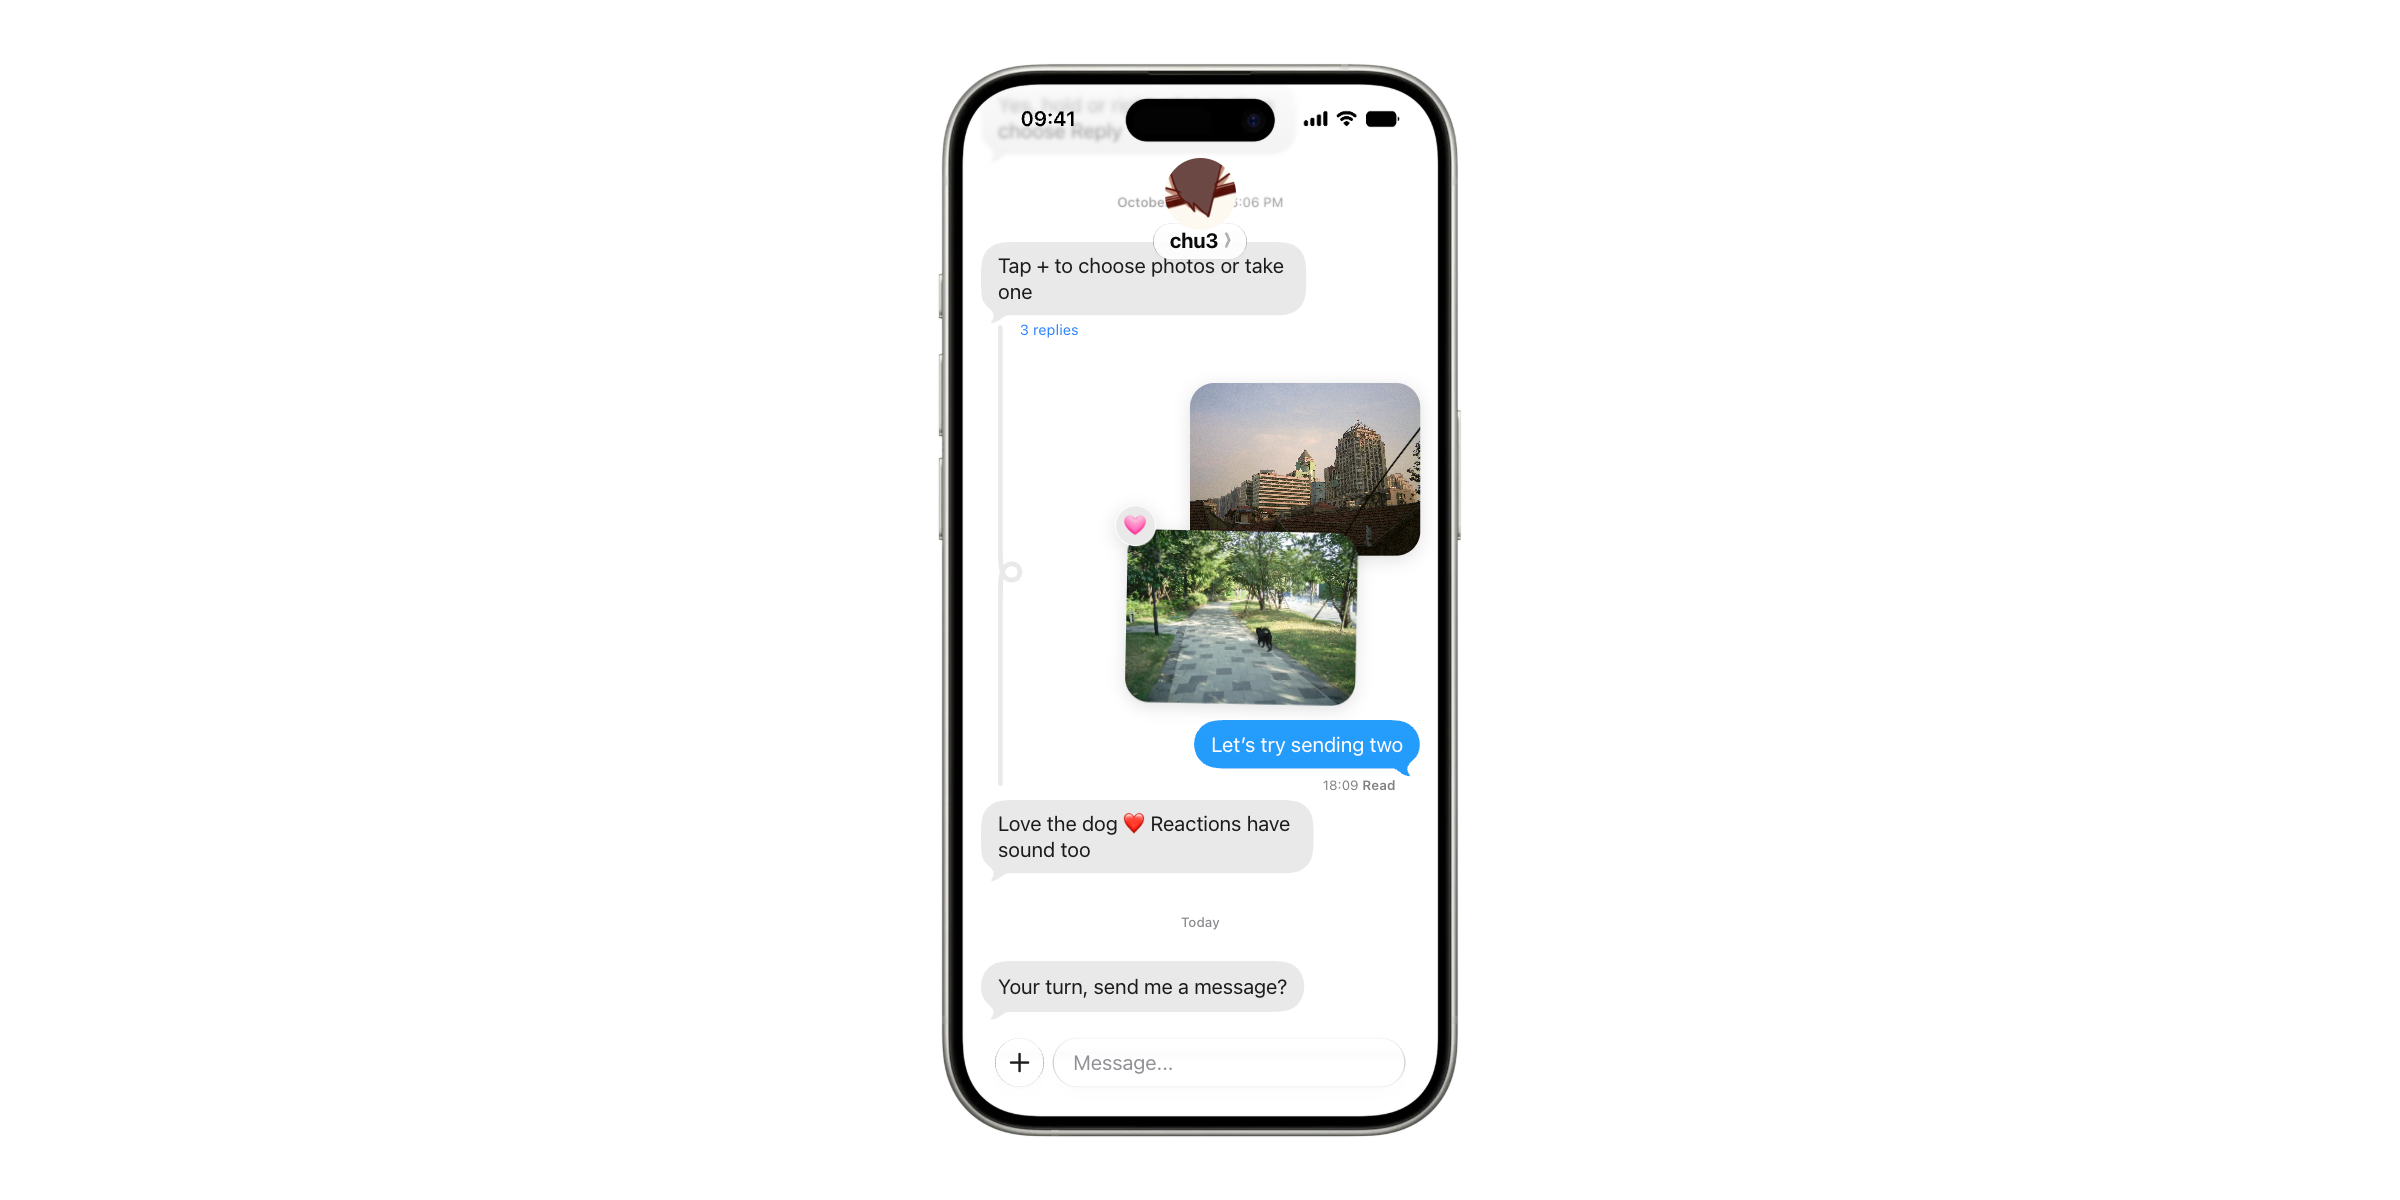
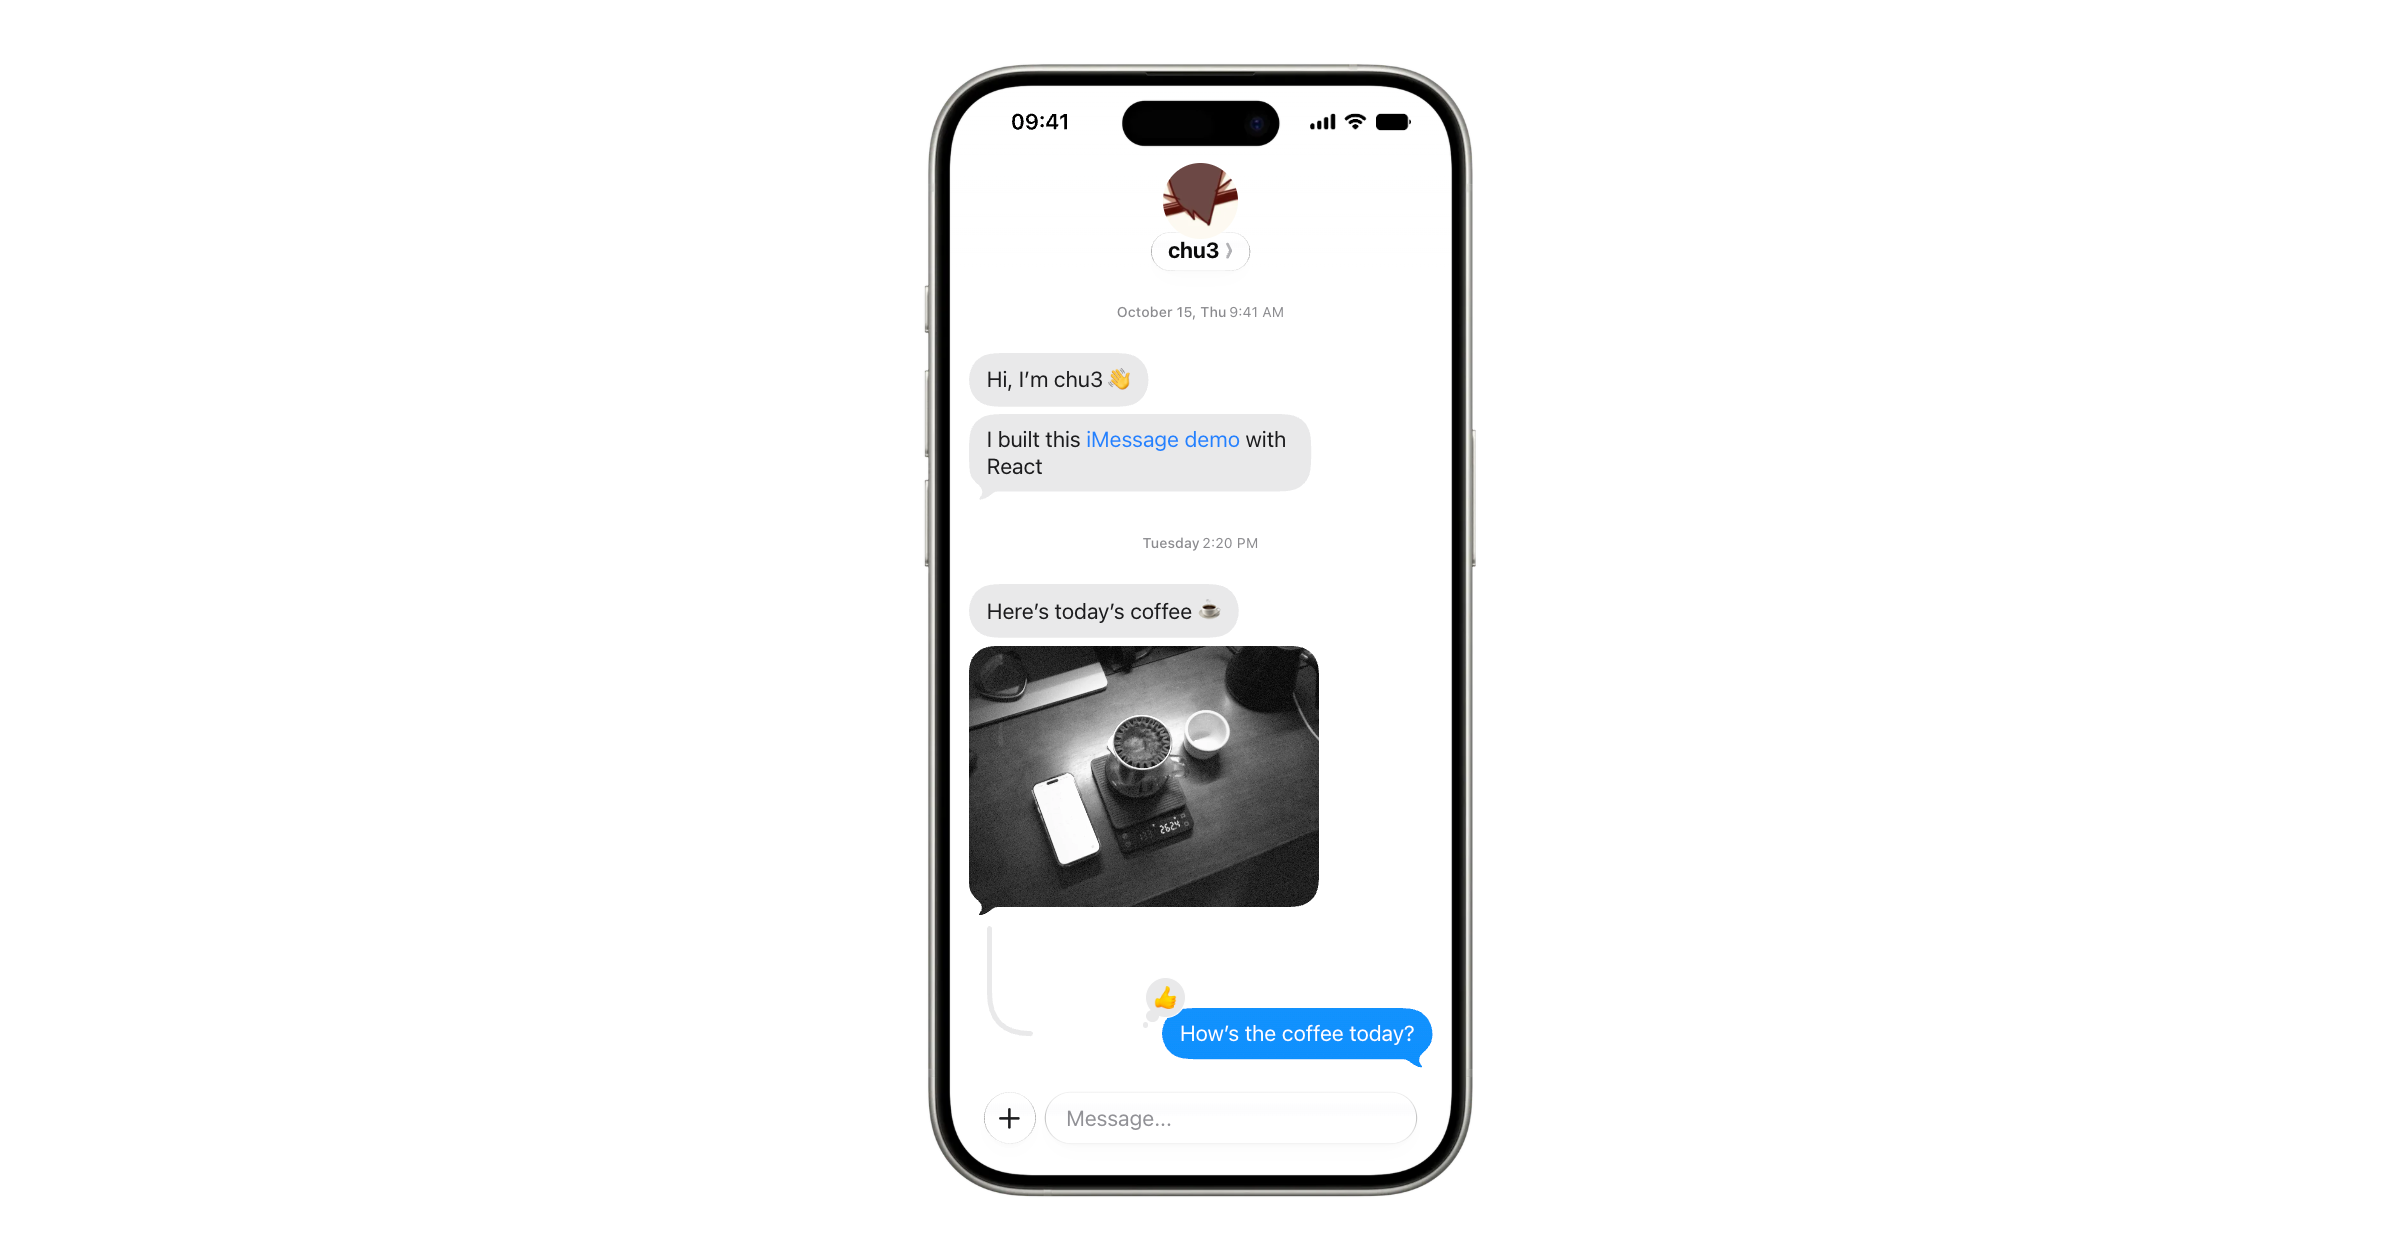
chore(assets): refresh and compress preview images

Changed region(s): [[0.375, 0.0308, 0.625, 0.9558]]

diff --git a/index.html b/index.html
@@ -21,7 +21,7 @@
     <meta property="og:image" content="https://imessage-demo.chu3.top/og.png" />
     <meta property="og:image:type" content="image/png" />
     <meta property="og:image:width" content="2400" />
-    <meta property="og:image:height" content="1200" />
+    <meta property="og:image:height" content="1260" />
     <meta
       property="og:image:alt"
       content="iMessage demo showing photo sharing, threaded replies and reactions inside an iPhone frame"

diff --git a/CREDITS.md b/CREDITS.md
@@ -1,6 +1,6 @@
 # Credits
 
-Original code, documentation, and website icons are licensed under [MIT](LICENSE). The other assets listed below, including their appearances in `.github/assets/preview-*.png` and `public/og.png`, are excluded from MIT. Third-party code retains its own licenses.
+Original code, documentation, and website icons are licensed under [MIT](LICENSE). The other assets listed below, including their appearances in `.github/assets/preview-*.webp` and `public/og.png`, are excluded from MIT. Third-party code retains its own licenses.
 
 - Device frame, side buttons, and status bar: Apple developer assets and device screenshots, compiled into `src/home/phoneImages.json`.
 - Clock glyphs and layout: exported from system fonts into `public/phone-clock/*.json`. No font files are included.

diff --git a/README.md b/README.md
@@ -16,8 +16,8 @@
 
 <a href="https://imessage-demo.chu3.top/">
   <picture>
-    <source media="(prefers-color-scheme: dark)" srcset=".github/assets/preview-dark.png" />
-    <img src=".github/assets/preview-light.png" alt="iMessage demo with photos, threaded replies and reactions" width="1200" />
+    <source media="(prefers-color-scheme: dark)" srcset=".github/assets/preview-dark.webp" />
+    <img src=".github/assets/preview-light.webp" alt="iMessage demo with photos, threaded replies and reactions" width="1200" />
   </picture>
 </a>
 

diff --git a/README.zh-CN.md b/README.zh-CN.md
@@ -16,8 +16,8 @@
 
 <a href="https://imessage-demo.chu3.top/">
   <picture>
-    <source media="(prefers-color-scheme: dark)" srcset=".github/assets/preview-dark.png" />
-    <img src=".github/assets/preview-light.png" alt="iMessage demo 的照片、引用回复与回应展示" width="1200" />
+    <source media="(prefers-color-scheme: dark)" srcset=".github/assets/preview-dark.webp" />
+    <img src=".github/assets/preview-light.webp" alt="iMessage demo 的照片、引用回复与回应展示" width="1200" />
   </picture>
 </a>
 
